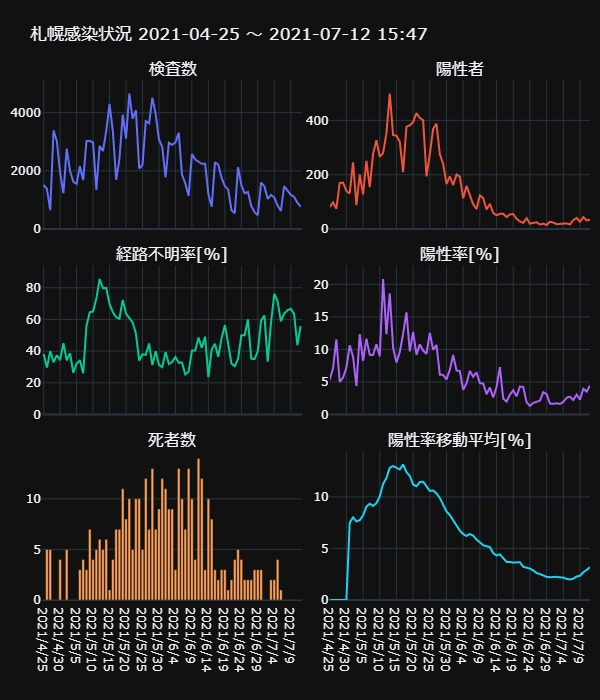
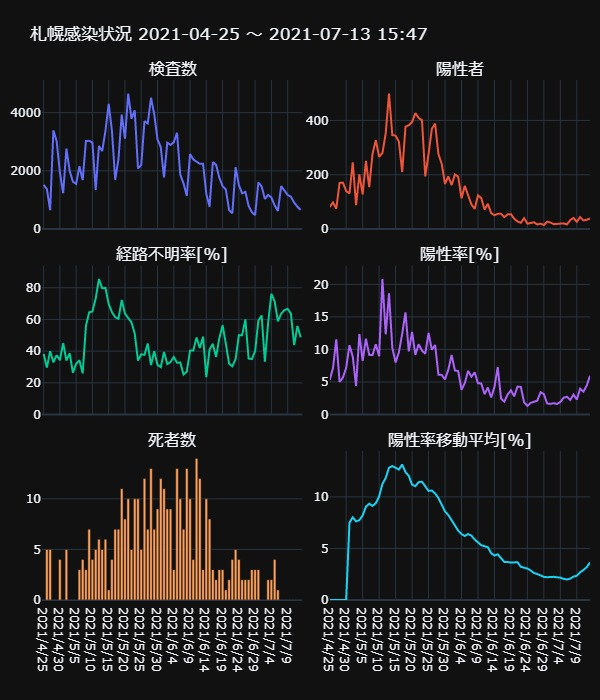
Updated with latest data.

diff --git a/docs/_includes/sapporo.html b/docs/_includes/sapporo.html
@@ -1,1 +1,1 @@
-<div>                            <div id="0b5a2108-7245-41b4-8dca-eda2f74f2cae" class="plotly-graph-div" style="height:700px; width:600px;"></div>            <script type="text/javascript">                                    window.PLOTLYENV=window.PLOTLYENV || {};                                    if (document.getElementById("0b5a2108-7245-41b4-8dca-eda2f74f2cae")) {                    Plotly.newPlot(                        "0b5a2108-7245-41b4-8dca-eda2f74f2cae",                        [{"name": "\u691c\u67fb\u6570", "type": "scatter", "x": ["2021/4/25", "2021/4/26", "2021/4/27", "2021/4/28", "2021/4/29", "2021/4/30", "2021/5/1", "2021/5/2", "2021/5/3", "2021/5/4", "2021/5/5", "2021/5/6", "2021/5/7", "2021/5/8", "2021/5/9", "2021/5/10", "2021/5/11", "2021/5/12", "2021/5/13", "2021/5/14", "2021/5/15", "2021/5/16", "2021/5/17", "2021/5/18", "2021/5/19", "2021/5/20", "2021/5/21", "2021/5/22", "2021/5/23", "2021/5/24", "2021/5/25", "2021/5/26", "2021/5/27", "2021/5/28", "2021/5/29", "2021/5/30", "2021/5/31", "2021/6/1", "2021/6/2", "2021/6/3", "2021/6/4", "2021/6/5", "2021/6/6", "2021/6/7", "2021/6/8", "2021/6/9", "2021/6/10", "2021/6/11", "2021/6/12", "2021/6/13", "2021/6/14", "2021/6/15", "2021/6/16", "2021/6/17", "2021/6/18", "2021/6/19", "2021/6/20", "2021/6/21", "2021/6/22", "2021/6/23", "2021/6/24", "2021/6/25", "2021/6/26", "2021/6/27", "2021/6/28", "2021/6/29", "2021/6/30", "2021/7/1", "2021/7/2", "2021/7/3", "2021/7/4", "2021/7/5", "2021/7/6", "2021/7/7", "2021/7/8", "2021/7/9", "2021/7/10", "2021/7/11", "2021/7/12"], "xaxis": "x", "y": [1517, 1377, 649, 3391, 3018, 1946, 1231, 2764, 2001, 1626, 1553, 2157, 1680, 3028, 3031, 2972, 1345, 2856, 2680, 3372, 4302, 3365, 1694, 2402, 3933, 3105, 4656, 3789, 4080, 2080, 2201, 3708, 3632, 4511, 3943, 3079, 2818, 1773, 2967, 2891, 2978, 3307, 1863, 1567, 1142, 2577, 2391, 2307, 2240, 2244, 1208, 768, 2295, 2212, 1763, 1476, 1360, 653, 542, 2124, 1513, 1229, 1278, 793, 583, 478, 1599, 1467, 1035, 1172, 1086, 813, 621, 1476, 1340, 1175, 1110, 909, 764], "yaxis": "y"}, {"name": "\u967d\u6027\u8005", "type": "scatter", "x": ["2021/4/25", "2021/4/26", "2021/4/27", "2021/4/28", "2021/4/29", "2021/4/30", "2021/5/1", "2021/5/2", "2021/5/3", "2021/5/4", "2021/5/5", "2021/5/6", "2021/5/7", "2021/5/8", "2021/5/9", "2021/5/10", "2021/5/11", "2021/5/12", "2021/5/13", "2021/5/14", "2021/5/15", "2021/5/16", "2021/5/17", "2021/5/18", "2021/5/19", "2021/5/20", "2021/5/21", "2021/5/22", "2021/5/23", "2021/5/24", "2021/5/25", "2021/5/26", "2021/5/27", "2021/5/28", "2021/5/29", "2021/5/30", "2021/5/31", "2021/6/1", "2021/6/2", "2021/6/3", "2021/6/4", "2021/6/5", "2021/6/6", "2021/6/7", "2021/6/8", "2021/6/9", "2021/6/10", "2021/6/11", "2021/6/12", "2021/6/13", "2021/6/14", "2021/6/15", "2021/6/16", "2021/6/17", "2021/6/18", "2021/6/19", "2021/6/20", "2021/6/21", "2021/6/22", "2021/6/23", "2021/6/24", "2021/6/25", "2021/6/26", "2021/6/27", "2021/6/28", "2021/6/29", "2021/6/30", "2021/7/1", "2021/7/2", "2021/7/3", "2021/7/4", "2021/7/5", "2021/7/6", "2021/7/7", "2021/7/8", "2021/7/9", "2021/7/10", "2021/7/11", "2021/7/12"], "xaxis": "x2", "y": [81, 98, 75, 170, 171, 140, 131, 246, 88, 201, 128, 251, 154, 277, 327, 266, 280, 352, 499, 346, 344, 322, 210, 377, 382, 394, 427, 409, 401, 194, 276, 369, 388, 276, 240, 166, 194, 162, 201, 193, 113, 159, 125, 91, 74, 124, 114, 72, 93, 59, 51, 56, 56, 44, 54, 55, 38, 28, 23, 40, 20, 22, 25, 17, 20, 15, 27, 24, 18, 19, 21, 21, 17, 33, 41, 27, 44, 32, 34], "yaxis": "y2"}, {"name": "\u7d4c\u8def\u4e0d\u660e\u7387[%]", "type": "scatter", "x": ["2021/4/25", "2021/4/26", "2021/4/27", "2021/4/28", "2021/4/29", "2021/4/30", "2021/5/1", "2021/5/2", "2021/5/3", "2021/5/4", "2021/5/5", "2021/5/6", "2021/5/7", "2021/5/8", "2021/5/9", "2021/5/10", "2021/5/11", "2021/5/12", "2021/5/13", "2021/5/14", "2021/5/15", "2021/5/16", "2021/5/17", "2021/5/18", "2021/5/19", "2021/5/20", "2021/5/21", "2021/5/22", "2021/5/23", "2021/5/24", "2021/5/25", "2021/5/26", "2021/5/27", "2021/5/28", "2021/5/29", "2021/5/30", "2021/5/31", "2021/6/1", "2021/6/2", "2021/6/3", "2021/6/4", "2021/6/5", "2021/6/6", "2021/6/7", "2021/6/8", "2021/6/9", "2021/6/10", "2021/6/11", "2021/6/12", "2021/6/13", "2021/6/14", "2021/6/15", "2021/6/16", "2021/6/17", "2021/6/18", "2021/6/19", "2021/6/20", "2021/6/21", "2021/6/22", "2021/6/23", "2021/6/24", "2021/6/25", "2021/6/26", "2021/6/27", "2021/6/28", "2021/6/29", "2021/6/30", "2021/7/1", "2021/7/2", "2021/7/3", "2021/7/4", "2021/7/5", "2021/7/6", "2021/7/7", "2021/7/8", "2021/7/9", "2021/7/10", "2021/7/11", "2021/7/12"], "xaxis": "x3", "y": [38.2716049382716, 29.591836734693878, 40.0, 32.94117647058823, 37.42690058479532, 34.285714285714285, 45.038167938931295, 34.146341463414636, 38.63636363636363, 26.368159203980102, 32.03125, 34.26294820717131, 25.97402597402597, 55.95667870036101, 64.52599388379205, 65.0375939849624, 73.21428571428571, 85.51136363636364, 79.75951903807615, 79.76878612716763, 69.76744186046511, 64.59627329192547, 61.42857142857143, 60.47745358090185, 72.25130890052355, 63.70558375634518, 60.88992974238876, 58.19070904645477, 51.12219451371571, 34.02061855670103, 38.04347826086957, 37.669376693766935, 44.84536082474227, 31.15942028985507, 40.0, 31.32530120481928, 29.896907216494846, 39.50617283950617, 31.8407960199005, 33.160621761658035, 36.283185840707965, 32.70440251572327, 32.800000000000004, 25.274725274725274, 27.027027027027028, 40.32258064516129, 40.35087719298245, 48.61111111111111, 41.935483870967744, 49.152542372881356, 23.52941176470588, 41.07142857142857, 44.642857142857146, 36.36363636363637, 48.148148148148145, 56.36363636363636, 44.73684210526316, 32.142857142857146, 30.434782608695656, 35.0, 50.0, 50.0, 60.0, 35.294117647058826, 35.0, 40.0, 59.25925925925925, 62.5, 33.33333333333333, 57.89473684210527, 76.19047619047619, 71.42857142857143, 58.82352941176471, 63.63636363636363, 65.85365853658537, 66.66666666666666, 63.63636363636363, 43.75, 55.88235294117647], "yaxis": "y3"}, {"name": "\u967d\u6027\u7387[%]", "type": "scatter", "x": ["2021/4/25", "2021/4/26", "2021/4/27", "2021/4/28", "2021/4/29", "2021/4/30", "2021/5/1", "2021/5/2", "2021/5/3", "2021/5/4", "2021/5/5", "2021/5/6", "2021/5/7", "2021/5/8", "2021/5/9", "2021/5/10", "2021/5/11", "2021/5/12", "2021/5/13", "2021/5/14", "2021/5/15", "2021/5/16", "2021/5/17", "2021/5/18", "2021/5/19", "2021/5/20", "2021/5/21", "2021/5/22", "2021/5/23", "2021/5/24", "2021/5/25", "2021/5/26", "2021/5/27", "2021/5/28", "2021/5/29", "2021/5/30", "2021/5/31", "2021/6/1", "2021/6/2", "2021/6/3", "2021/6/4", "2021/6/5", "2021/6/6", "2021/6/7", "2021/6/8", "2021/6/9", "2021/6/10", "2021/6/11", "2021/6/12", "2021/6/13", "2021/6/14", "2021/6/15", "2021/6/16", "2021/6/17", "2021/6/18", "2021/6/19", "2021/6/20", "2021/6/21", "2021/6/22", "2021/6/23", "2021/6/24", "2021/6/25", "2021/6/26", "2021/6/27", "2021/6/28", "2021/6/29", "2021/6/30", "2021/7/1", "2021/7/2", "2021/7/3", "2021/7/4", "2021/7/5", "2021/7/6", "2021/7/7", "2021/7/8", "2021/7/9", "2021/7/10", "2021/7/11", "2021/7/12"], "xaxis": "x4", "y": [5.339485827290705, 7.116920842411038, 11.556240369799692, 5.013270421704512, 5.666003976143141, 7.194244604316546, 10.641754670999187, 8.90014471780029, 4.397801099450275, 12.361623616236162, 8.24211204121056, 11.636532220676866, 9.166666666666666, 9.147952443857331, 10.788518640712635, 8.950201884253028, 20.817843866171003, 12.324929971988796, 18.619402985074625, 10.26097271648873, 7.996280799628081, 9.569093610698365, 12.396694214876034, 15.695253955037469, 9.712687515891178, 12.689210950080515, 9.170962199312713, 10.794404856162576, 9.82843137254902, 9.326923076923077, 12.539754656974104, 9.951456310679612, 10.682819383259911, 6.1183772999334956, 6.086735987826528, 5.391360831438779, 6.88431511710433, 9.137055837563452, 6.774519716885743, 6.675890695261155, 3.794492948287441, 4.807983066223163, 6.709608158883522, 5.8072750478621575, 6.47985989492119, 4.811796662786186, 4.767879548306149, 3.1209362808842656, 4.151785714285714, 2.6292335115864525, 4.2218543046357615, 7.291666666666667, 2.440087145969499, 1.9891500904159132, 3.0629608621667614, 3.7262872628726287, 2.794117647058824, 4.287901990811639, 4.243542435424354, 1.8832391713747645, 1.3218770654329148, 1.790073230268511, 1.9561815336463224, 2.1437578814627996, 3.430531732418525, 3.1380753138075312, 1.6885553470919326, 1.6359918200409, 1.7391304347826086, 1.621160409556314, 1.9337016574585635, 2.5830258302583027, 2.737520128824477, 2.2357723577235773, 3.0597014925373136, 2.297872340425532, 3.963963963963964, 3.52035203520352, 4.450261780104712], "yaxis": "y4"}, {"name": "\u6b7b\u8005\u6570", "type": "bar", "x": ["2021/4/25", "2021/4/26", "2021/4/27", "2021/4/28", "2021/4/29", "2021/4/30", "2021/5/1", "2021/5/2", "2021/5/3", "2021/5/4", "2021/5/5", "2021/5/6", "2021/5/7", "2021/5/8", "2021/5/9", "2021/5/10", "2021/5/11", "2021/5/12", "2021/5/13", "2021/5/14", "2021/5/15", "2021/5/16", "2021/5/17", "2021/5/18", "2021/5/19", "2021/5/20", "2021/5/21", "2021/5/22", "2021/5/23", "2021/5/24", "2021/5/25", "2021/5/26", "2021/5/27", "2021/5/28", "2021/5/29", "2021/5/30", "2021/5/31", "2021/6/1", "2021/6/2", "2021/6/3", "2021/6/4", "2021/6/5", "2021/6/6", "2021/6/7", "2021/6/8", "2021/6/9", "2021/6/10", "2021/6/11", "2021/6/12", "2021/6/13", "2021/6/14", "2021/6/15", "2021/6/16", "2021/6/17", "2021/6/18", "2021/6/19", "2021/6/20", "2021/6/21", "2021/6/22", "2021/6/23", "2021/6/24", "2021/6/25", "2021/6/26", "2021/6/27", "2021/6/28", "2021/6/29", "2021/6/30", "2021/7/1", "2021/7/2", "2021/7/3", "2021/7/4", "2021/7/5", "2021/7/6", "2021/7/7", "2021/7/8", "2021/7/9", "2021/7/10", "2021/7/11", "2021/7/12"], "xaxis": "x5", "y": [0, 5, 5, 0, 0, 4, 0, 5, 0, 0, 0, 3, 4, 3, 7, 4, 5, 6, 5, 6, 1, 4, 7, 7, 11, 8, 10, 5, 10, 10, 5, 12, 7, 13, 7, 9, 12, 11, 9, 9, 3, 13, 10, 7, 13, 10, 4, 14, 12, 3, 10, 8, 3, 2, 3, 3, 1, 2, 4, 5, 4, 2, 2, 2, 3, 3, 3, 0, 0, 2, 2, 4, 1, 0, 0, 0, 0, 0, 0], "yaxis": "y5"}, {"name": "\u967d\u6027\u7387\u79fb\u52d5\u5e73\u5747[%]", "type": "scatter", "x": ["2021/4/25", "2021/4/26", "2021/4/27", "2021/4/28", "2021/4/29", "2021/4/30", "2021/5/1", "2021/5/2", "2021/5/3", "2021/5/4", "2021/5/5", "2021/5/6", "2021/5/7", "2021/5/8", "2021/5/9", "2021/5/10", "2021/5/11", "2021/5/12", "2021/5/13", "2021/5/14", "2021/5/15", "2021/5/16", "2021/5/17", "2021/5/18", "2021/5/19", "2021/5/20", "2021/5/21", "2021/5/22", "2021/5/23", "2021/5/24", "2021/5/25", "2021/5/26", "2021/5/27", "2021/5/28", "2021/5/29", "2021/5/30", "2021/5/31", "2021/6/1", "2021/6/2", "2021/6/3", "2021/6/4", "2021/6/5", "2021/6/6", "2021/6/7", "2021/6/8", "2021/6/9", "2021/6/10", "2021/6/11", "2021/6/12", "2021/6/13", "2021/6/14", "2021/6/15", "2021/6/16", "2021/6/17", "2021/6/18", "2021/6/19", "2021/6/20", "2021/6/21", "2021/6/22", "2021/6/23", "2021/6/24", "2021/6/25", "2021/6/26", "2021/6/27", "2021/6/28", "2021/6/29", "2021/6/30", "2021/7/1", "2021/7/2", "2021/7/3", "2021/7/4", "2021/7/5", "2021/7/6", "2021/7/7", "2021/7/8", "2021/7/9", "2021/7/10", "2021/7/11", "2021/7/12"], "xaxis": "x6", "y": [0.0, 0.0, 0.0, 0.0, 0.0, 0.0, 7.503988673237832, 8.012654229024914, 7.624208551459091, 7.739263300950015, 8.20052638945088, 9.053458995812841, 9.335233576148571, 9.12183325798545, 9.391600961258641, 10.041943930516178, 11.249975394792585, 11.833235099189475, 12.830788065532012, 12.987117501220878, 12.8225929806167, 12.648389404900376, 13.140745452132233, 12.408946893398872, 12.035769399670638, 11.188599108957195, 11.032883320789193, 11.432615328865548, 11.469663580558498, 11.03112484656522, 10.580339232556168, 10.614449060383087, 10.32782169369443, 9.891738136640255, 9.219214012592248, 8.585346792433644, 8.236402798173822, 7.750302966829444, 7.296454882001749, 6.724036498001926, 6.392053019195346, 6.209374030394867, 6.397695077172687, 6.24383221013809, 5.864232789760624, 5.583843782032115, 5.311270761038544, 5.215048379980947, 5.12130590113274, 4.53839523723316, 4.311906559629389, 4.4278789555930285, 4.0890633103335015, 3.6921019592063242, 3.683819756532395, 3.6230342634733828, 3.646589139969436, 3.6560245237088473, 3.220578204959945, 3.141028494303555, 3.045703776448841, 2.863862686177662, 2.6109904391453327, 2.5180819012030433, 2.395600435718313, 2.237676561201624, 2.2098645863040765, 2.254738122676646, 2.247460580464374, 2.1996004198800874, 2.169592387879482, 2.0485201161423072, 1.991297946859014, 2.0694718055206773, 2.2728589015915936, 2.352679173826297, 2.687365395884533, 2.9140297355623836, 3.1807777283975844], "yaxis": "y6"}],                        {"annotations": [{"font": {"size": 16}, "showarrow": false, "text": "\u691c\u67fb\u6570", "x": 0.2375, "xanchor": "center", "xref": "paper", "y": 1.0, "yanchor": "bottom", "yref": "paper"}, {"font": {"size": 16}, "showarrow": false, "text": "\u967d\u6027\u8005", "x": 0.7625, "xanchor": "center", "xref": "paper", "y": 1.0, "yanchor": "bottom", "yref": "paper"}, {"font": {"size": 16}, "showarrow": false, "text": "\u7d4c\u8def\u4e0d\u660e\u7387[%]", "x": 0.2375, "xanchor": "center", "xref": "paper", "y": 0.6433333333333333, "yanchor": "bottom", "yref": "paper"}, {"font": {"size": 16}, "showarrow": false, "text": "\u967d\u6027\u7387[%]", "x": 0.7625, "xanchor": "center", "xref": "paper", "y": 0.6433333333333333, "yanchor": "bottom", "yref": "paper"}, {"font": {"size": 16}, "showarrow": false, "text": "\u6b7b\u8005\u6570", "x": 0.2375, "xanchor": "center", "xref": "paper", "y": 0.2866666666666667, "yanchor": "bottom", "yref": "paper"}, {"font": {"size": 16}, "showarrow": false, "text": "\u967d\u6027\u7387\u79fb\u52d5\u5e73\u5747[%]", "x": 0.7625, "xanchor": "center", "xref": "paper", "y": 0.2866666666666667, "yanchor": "bottom", "yref": "paper"}], "height": 700, "margin": {"b": 100, "l": 10, "r": 10, "t": 80}, "showlegend": false, "template": {"data": {"bar": [{"error_x": {"color": "#f2f5fa"}, "error_y": {"color": "#f2f5fa"}, "marker": {"line": {"color": "rgb(17,17,17)", "width": 0.5}}, "type": "bar"}], "barpolar": [{"marker": {"line": {"color": "rgb(17,17,17)", "width": 0.5}}, "type": "barpolar"}], "carpet": [{"aaxis": {"endlinecolor": "#A2B1C6", "gridcolor": "#506784", "linecolor": "#506784", "minorgridcolor": "#506784", "startlinecolor": "#A2B1C6"}, "baxis": {"endlinecolor": "#A2B1C6", "gridcolor": "#506784", "linecolor": "#506784", "minorgridcolor": "#506784", "startlinecolor": "#A2B1C6"}, "type": "carpet"}], "choropleth": [{"colorbar": {"outlinewidth": 0, "ticks": ""}, "type": "choropleth"}], "contour": [{"colorbar": {"outlinewidth": 0, "ticks": ""}, "colorscale": [[0.0, "#0d0887"], [0.1111111111111111, "#46039f"], [0.2222222222222222, "#7201a8"], [0.3333333333333333, "#9c179e"], [0.4444444444444444, "#bd3786"], [0.5555555555555556, "#d8576b"], [0.6666666666666666, "#ed7953"], [0.7777777777777778, "#fb9f3a"], [0.8888888888888888, "#fdca26"], [1.0, "#f0f921"]], "type": "contour"}], "contourcarpet": [{"colorbar": {"outlinewidth": 0, "ticks": ""}, "type": "contourcarpet"}], "heatmap": [{"colorbar": {"outlinewidth": 0, "ticks": ""}, "colorscale": [[0.0, "#0d0887"], [0.1111111111111111, "#46039f"], [0.2222222222222222, "#7201a8"], [0.3333333333333333, "#9c179e"], [0.4444444444444444, "#bd3786"], [0.5555555555555556, "#d8576b"], [0.6666666666666666, "#ed7953"], [0.7777777777777778, "#fb9f3a"], [0.8888888888888888, "#fdca26"], [1.0, "#f0f921"]], "type": "heatmap"}], "heatmapgl": [{"colorbar": {"outlinewidth": 0, "ticks": ""}, "colorscale": [[0.0, "#0d0887"], [0.1111111111111111, "#46039f"], [0.2222222222222222, "#7201a8"], [0.3333333333333333, "#9c179e"], [0.4444444444444444, "#bd3786"], [0.5555555555555556, "#d8576b"], [0.6666666666666666, "#ed7953"], [0.7777777777777778, "#fb9f3a"], [0.8888888888888888, "#fdca26"], [1.0, "#f0f921"]], "type": "heatmapgl"}], "histogram": [{"marker": {"colorbar": {"outlinewidth": 0, "ticks": ""}}, "type": "histogram"}], "histogram2d": [{"colorbar": {"outlinewidth": 0, "ticks": ""}, "colorscale": [[0.0, "#0d0887"], [0.1111111111111111, "#46039f"], [0.2222222222222222, "#7201a8"], [0.3333333333333333, "#9c179e"], [0.4444444444444444, "#bd3786"], [0.5555555555555556, "#d8576b"], [0.6666666666666666, "#ed7953"], [0.7777777777777778, "#fb9f3a"], [0.8888888888888888, "#fdca26"], [1.0, "#f0f921"]], "type": "histogram2d"}], "histogram2dcontour": [{"colorbar": {"outlinewidth": 0, "ticks": ""}, "colorscale": [[0.0, "#0d0887"], [0.1111111111111111, "#46039f"], [0.2222222222222222, "#7201a8"], [0.3333333333333333, "#9c179e"], [0.4444444444444444, "#bd3786"], [0.5555555555555556, "#d8576b"], [0.6666666666666666, "#ed7953"], [0.7777777777777778, "#fb9f3a"], [0.8888888888888888, "#fdca26"], [1.0, "#f0f921"]], "type": "histogram2dcontour"}], "mesh3d": [{"colorbar": {"outlinewidth": 0, "ticks": ""}, "type": "mesh3d"}], "parcoords": [{"line": {"colorbar": {"outlinewidth": 0, "ticks": ""}}, "type": "parcoords"}], "pie": [{"automargin": true, "type": "pie"}], "scatter": [{"marker": {"line": {"color": "#283442"}}, "type": "scatter"}], "scatter3d": [{"line": {"colorbar": {"outlinewidth": 0, "ticks": ""}}, "marker": {"colorbar": {"outlinewidth": 0, "ticks": ""}}, "type": "scatter3d"}], "scattercarpet": [{"marker": {"colorbar": {"outlinewidth": 0, "ticks": ""}}, "type": "scattercarpet"}], "scattergeo": [{"marker": {"colorbar": {"outlinewidth": 0, "ticks": ""}}, "type": "scattergeo"}], "scattergl": [{"marker": {"line": {"color": "#283442"}}, "type": "scattergl"}], "scattermapbox": [{"marker": {"colorbar": {"outlinewidth": 0, "ticks": ""}}, "type": "scattermapbox"}], "scatterpolar": [{"marker": {"colorbar": {"outlinewidth": 0, "ticks": ""}}, "type": "scatterpolar"}], "scatterpolargl": [{"marker": {"colorbar": {"outlinewidth": 0, "ticks": ""}}, "type": "scatterpolargl"}], "scatterternary": [{"marker": {"colorbar": {"outlinewidth": 0, "ticks": ""}}, "type": "scatterternary"}], "surface": [{"colorbar": {"outlinewidth": 0, "ticks": ""}, "colorscale": [[0.0, "#0d0887"], [0.1111111111111111, "#46039f"], [0.2222222222222222, "#7201a8"], [0.3333333333333333, "#9c179e"], [0.4444444444444444, "#bd3786"], [0.5555555555555556, "#d8576b"], [0.6666666666666666, "#ed7953"], [0.7777777777777778, "#fb9f3a"], [0.8888888888888888, "#fdca26"], [1.0, "#f0f921"]], "type": "surface"}], "table": [{"cells": {"fill": {"color": "#506784"}, "line": {"color": "rgb(17,17,17)"}}, "header": {"fill": {"color": "#2a3f5f"}, "line": {"color": "rgb(17,17,17)"}}, "type": "table"}]}, "layout": {"annotationdefaults": {"arrowcolor": "#f2f5fa", "arrowhead": 0, "arrowwidth": 1}, "autotypenumbers": "strict", "coloraxis": {"colorbar": {"outlinewidth": 0, "ticks": ""}}, "colorscale": {"diverging": [[0, "#8e0152"], [0.1, "#c51b7d"], [0.2, "#de77ae"], [0.3, "#f1b6da"], [0.4, "#fde0ef"], [0.5, "#f7f7f7"], [0.6, "#e6f5d0"], [0.7, "#b8e186"], [0.8, "#7fbc41"], [0.9, "#4d9221"], [1, "#276419"]], "sequential": [[0.0, "#0d0887"], [0.1111111111111111, "#46039f"], [0.2222222222222222, "#7201a8"], [0.3333333333333333, "#9c179e"], [0.4444444444444444, "#bd3786"], [0.5555555555555556, "#d8576b"], [0.6666666666666666, "#ed7953"], [0.7777777777777778, "#fb9f3a"], [0.8888888888888888, "#fdca26"], [1.0, "#f0f921"]], "sequentialminus": [[0.0, "#0d0887"], [0.1111111111111111, "#46039f"], [0.2222222222222222, "#7201a8"], [0.3333333333333333, "#9c179e"], [0.4444444444444444, "#bd3786"], [0.5555555555555556, "#d8576b"], [0.6666666666666666, "#ed7953"], [0.7777777777777778, "#fb9f3a"], [0.8888888888888888, "#fdca26"], [1.0, "#f0f921"]]}, "colorway": ["#636efa", "#EF553B", "#00cc96", "#ab63fa", "#FFA15A", "#19d3f3", "#FF6692", "#B6E880", "#FF97FF", "#FECB52"], "font": {"color": "#f2f5fa"}, "geo": {"bgcolor": "rgb(17,17,17)", "lakecolor": "rgb(17,17,17)", "landcolor": "rgb(17,17,17)", "showlakes": true, "showland": true, "subunitcolor": "#506784"}, "hoverlabel": {"align": "left"}, "hovermode": "closest", "mapbox": {"style": "dark"}, "paper_bgcolor": "rgb(17,17,17)", "plot_bgcolor": "rgb(17,17,17)", "polar": {"angularaxis": {"gridcolor": "#506784", "linecolor": "#506784", "ticks": ""}, "bgcolor": "rgb(17,17,17)", "radialaxis": {"gridcolor": "#506784", "linecolor": "#506784", "ticks": ""}}, "scene": {"xaxis": {"backgroundcolor": "rgb(17,17,17)", "gridcolor": "#506784", "gridwidth": 2, "linecolor": "#506784", "showbackground": true, "ticks": "", "zerolinecolor": "#C8D4E3"}, "yaxis": {"backgroundcolor": "rgb(17,17,17)", "gridcolor": "#506784", "gridwidth": 2, "linecolor": "#506784", "showbackground": true, "ticks": "", "zerolinecolor": "#C8D4E3"}, "zaxis": {"backgroundcolor": "rgb(17,17,17)", "gridcolor": "#506784", "gridwidth": 2, "linecolor": "#506784", "showbackground": true, "ticks": "", "zerolinecolor": "#C8D4E3"}}, "shapedefaults": {"line": {"color": "#f2f5fa"}}, "sliderdefaults": {"bgcolor": "#C8D4E3", "bordercolor": "rgb(17,17,17)", "borderwidth": 1, "tickwidth": 0}, "ternary": {"aaxis": {"gridcolor": "#506784", "linecolor": "#506784", "ticks": ""}, "baxis": {"gridcolor": "#506784", "linecolor": "#506784", "ticks": ""}, "bgcolor": "rgb(17,17,17)", "caxis": {"gridcolor": "#506784", "linecolor": "#506784", "ticks": ""}}, "title": {"x": 0.05}, "updatemenudefaults": {"bgcolor": "#506784", "borderwidth": 0}, "xaxis": {"automargin": true, "gridcolor": "#283442", "linecolor": "#506784", "ticks": "", "title": {"standoff": 15}, "zerolinecolor": "#283442", "zerolinewidth": 2}, "yaxis": {"automargin": true, "gridcolor": "#283442", "linecolor": "#506784", "ticks": "", "title": {"standoff": 15}, "zerolinecolor": "#283442", "zerolinewidth": 2}}}, "title": {"text": "\u672d\u5e4c\u611f\u67d3\u72b6\u6cc1 2021-04-25 \uff5e 2021-07-12 15:47"}, "width": 600, "xaxis": {"anchor": "y", "domain": [0.0, 0.475], "matches": "x5", "showticklabels": false}, "xaxis2": {"anchor": "y2", "domain": [0.525, 1.0], "matches": "x6", "showticklabels": false}, "xaxis3": {"anchor": "y3", "domain": [0.0, 0.475], "matches": "x5", "showticklabels": false}, "xaxis4": {"anchor": "y4", "domain": [0.525, 1.0], "matches": "x6", "showticklabels": false}, "xaxis5": {"anchor": "y5", "domain": [0.0, 0.475]}, "xaxis6": {"anchor": "y6", "domain": [0.525, 1.0]}, "yaxis": {"anchor": "x", "domain": [0.7133333333333334, 1.0], "range": [0, 5121.6]}, "yaxis2": {"anchor": "x2", "domain": [0.7133333333333334, 1.0], "range": [0, 548.9000000000001]}, "yaxis3": {"anchor": "x3", "domain": [0.3566666666666667, 0.6433333333333333], "range": [0, 94.06250000000001]}, "yaxis4": {"anchor": "x4", "domain": [0.3566666666666667, 0.6433333333333333], "range": [0, 22.899628252788105]}, "yaxis5": {"anchor": "x5", "domain": [0.0, 0.2866666666666667]}, "yaxis6": {"anchor": "x6", "domain": [0.0, 0.2866666666666667], "range": [0, 14.454819997345457]}},                        {"responsive": true}                    )                };                            </script>        </div>
+<div>                            <div id="8fd018f8-7667-4017-8fbf-c5a1667464a9" class="plotly-graph-div" style="height:700px; width:600px;"></div>            <script type="text/javascript">                                    window.PLOTLYENV=window.PLOTLYENV || {};                                    if (document.getElementById("8fd018f8-7667-4017-8fbf-c5a1667464a9")) {                    Plotly.newPlot(                        "8fd018f8-7667-4017-8fbf-c5a1667464a9",                        [{"name": "\u691c\u67fb\u6570", "type": "scatter", "x": ["2021/4/25", "2021/4/26", "2021/4/27", "2021/4/28", "2021/4/29", "2021/4/30", "2021/5/1", "2021/5/2", "2021/5/3", "2021/5/4", "2021/5/5", "2021/5/6", "2021/5/7", "2021/5/8", "2021/5/9", "2021/5/10", "2021/5/11", "2021/5/12", "2021/5/13", "2021/5/14", "2021/5/15", "2021/5/16", "2021/5/17", "2021/5/18", "2021/5/19", "2021/5/20", "2021/5/21", "2021/5/22", "2021/5/23", "2021/5/24", "2021/5/25", "2021/5/26", "2021/5/27", "2021/5/28", "2021/5/29", "2021/5/30", "2021/5/31", "2021/6/1", "2021/6/2", "2021/6/3", "2021/6/4", "2021/6/5", "2021/6/6", "2021/6/7", "2021/6/8", "2021/6/9", "2021/6/10", "2021/6/11", "2021/6/12", "2021/6/13", "2021/6/14", "2021/6/15", "2021/6/16", "2021/6/17", "2021/6/18", "2021/6/19", "2021/6/20", "2021/6/21", "2021/6/22", "2021/6/23", "2021/6/24", "2021/6/25", "2021/6/26", "2021/6/27", "2021/6/28", "2021/6/29", "2021/6/30", "2021/7/1", "2021/7/2", "2021/7/3", "2021/7/4", "2021/7/5", "2021/7/6", "2021/7/7", "2021/7/8", "2021/7/9", "2021/7/10", "2021/7/11", "2021/7/12", "2021/7/13"], "xaxis": "x", "y": [1517, 1377, 649, 3391, 3018, 1946, 1231, 2764, 2001, 1626, 1553, 2157, 1680, 3028, 3031, 2972, 1345, 2856, 2680, 3372, 4302, 3365, 1694, 2402, 3933, 3105, 4656, 3789, 4080, 2080, 2201, 3708, 3632, 4511, 3943, 3079, 2818, 1773, 2967, 2891, 2978, 3307, 1863, 1567, 1142, 2577, 2391, 2307, 2240, 2244, 1208, 768, 2295, 2212, 1763, 1476, 1360, 653, 542, 2124, 1513, 1229, 1278, 793, 583, 478, 1599, 1467, 1035, 1172, 1086, 813, 621, 1476, 1340, 1175, 1110, 909, 764, 656], "yaxis": "y"}, {"name": "\u967d\u6027\u8005", "type": "scatter", "x": ["2021/4/25", "2021/4/26", "2021/4/27", "2021/4/28", "2021/4/29", "2021/4/30", "2021/5/1", "2021/5/2", "2021/5/3", "2021/5/4", "2021/5/5", "2021/5/6", "2021/5/7", "2021/5/8", "2021/5/9", "2021/5/10", "2021/5/11", "2021/5/12", "2021/5/13", "2021/5/14", "2021/5/15", "2021/5/16", "2021/5/17", "2021/5/18", "2021/5/19", "2021/5/20", "2021/5/21", "2021/5/22", "2021/5/23", "2021/5/24", "2021/5/25", "2021/5/26", "2021/5/27", "2021/5/28", "2021/5/29", "2021/5/30", "2021/5/31", "2021/6/1", "2021/6/2", "2021/6/3", "2021/6/4", "2021/6/5", "2021/6/6", "2021/6/7", "2021/6/8", "2021/6/9", "2021/6/10", "2021/6/11", "2021/6/12", "2021/6/13", "2021/6/14", "2021/6/15", "2021/6/16", "2021/6/17", "2021/6/18", "2021/6/19", "2021/6/20", "2021/6/21", "2021/6/22", "2021/6/23", "2021/6/24", "2021/6/25", "2021/6/26", "2021/6/27", "2021/6/28", "2021/6/29", "2021/6/30", "2021/7/1", "2021/7/2", "2021/7/3", "2021/7/4", "2021/7/5", "2021/7/6", "2021/7/7", "2021/7/8", "2021/7/9", "2021/7/10", "2021/7/11", "2021/7/12", "2021/7/13"], "xaxis": "x2", "y": [81, 98, 75, 170, 171, 140, 131, 246, 88, 201, 128, 251, 154, 277, 327, 266, 280, 352, 499, 346, 344, 322, 210, 377, 382, 394, 427, 409, 401, 194, 276, 369, 388, 276, 240, 166, 194, 162, 201, 193, 113, 159, 125, 91, 74, 124, 114, 72, 93, 59, 51, 56, 56, 44, 54, 55, 38, 28, 23, 40, 20, 22, 25, 17, 20, 15, 27, 24, 18, 19, 21, 21, 17, 33, 41, 27, 44, 32, 34, 39], "yaxis": "y2"}, {"name": "\u7d4c\u8def\u4e0d\u660e\u7387[%]", "type": "scatter", "x": ["2021/4/25", "2021/4/26", "2021/4/27", "2021/4/28", "2021/4/29", "2021/4/30", "2021/5/1", "2021/5/2", "2021/5/3", "2021/5/4", "2021/5/5", "2021/5/6", "2021/5/7", "2021/5/8", "2021/5/9", "2021/5/10", "2021/5/11", "2021/5/12", "2021/5/13", "2021/5/14", "2021/5/15", "2021/5/16", "2021/5/17", "2021/5/18", "2021/5/19", "2021/5/20", "2021/5/21", "2021/5/22", "2021/5/23", "2021/5/24", "2021/5/25", "2021/5/26", "2021/5/27", "2021/5/28", "2021/5/29", "2021/5/30", "2021/5/31", "2021/6/1", "2021/6/2", "2021/6/3", "2021/6/4", "2021/6/5", "2021/6/6", "2021/6/7", "2021/6/8", "2021/6/9", "2021/6/10", "2021/6/11", "2021/6/12", "2021/6/13", "2021/6/14", "2021/6/15", "2021/6/16", "2021/6/17", "2021/6/18", "2021/6/19", "2021/6/20", "2021/6/21", "2021/6/22", "2021/6/23", "2021/6/24", "2021/6/25", "2021/6/26", "2021/6/27", "2021/6/28", "2021/6/29", "2021/6/30", "2021/7/1", "2021/7/2", "2021/7/3", "2021/7/4", "2021/7/5", "2021/7/6", "2021/7/7", "2021/7/8", "2021/7/9", "2021/7/10", "2021/7/11", "2021/7/12", "2021/7/13"], "xaxis": "x3", "y": [38.2716049382716, 29.591836734693878, 40.0, 32.94117647058823, 37.42690058479532, 34.285714285714285, 45.038167938931295, 34.146341463414636, 38.63636363636363, 26.368159203980102, 32.03125, 34.26294820717131, 25.97402597402597, 55.95667870036101, 64.52599388379205, 65.0375939849624, 73.21428571428571, 85.51136363636364, 79.75951903807615, 79.76878612716763, 69.76744186046511, 64.59627329192547, 61.42857142857143, 60.47745358090185, 72.25130890052355, 63.70558375634518, 60.88992974238876, 58.19070904645477, 51.12219451371571, 34.02061855670103, 38.04347826086957, 37.669376693766935, 44.84536082474227, 31.15942028985507, 40.0, 31.32530120481928, 29.896907216494846, 39.50617283950617, 31.8407960199005, 33.160621761658035, 36.283185840707965, 32.70440251572327, 32.800000000000004, 25.274725274725274, 27.027027027027028, 40.32258064516129, 40.35087719298245, 48.61111111111111, 41.935483870967744, 49.152542372881356, 23.52941176470588, 41.07142857142857, 44.642857142857146, 36.36363636363637, 48.148148148148145, 56.36363636363636, 44.73684210526316, 32.142857142857146, 30.434782608695656, 35.0, 50.0, 50.0, 60.0, 35.294117647058826, 35.0, 40.0, 59.25925925925925, 62.5, 33.33333333333333, 57.89473684210527, 76.19047619047619, 71.42857142857143, 58.82352941176471, 63.63636363636363, 65.85365853658537, 66.66666666666666, 63.63636363636363, 43.75, 55.88235294117647, 48.717948717948715], "yaxis": "y3"}, {"name": "\u967d\u6027\u7387[%]", "type": "scatter", "x": ["2021/4/25", "2021/4/26", "2021/4/27", "2021/4/28", "2021/4/29", "2021/4/30", "2021/5/1", "2021/5/2", "2021/5/3", "2021/5/4", "2021/5/5", "2021/5/6", "2021/5/7", "2021/5/8", "2021/5/9", "2021/5/10", "2021/5/11", "2021/5/12", "2021/5/13", "2021/5/14", "2021/5/15", "2021/5/16", "2021/5/17", "2021/5/18", "2021/5/19", "2021/5/20", "2021/5/21", "2021/5/22", "2021/5/23", "2021/5/24", "2021/5/25", "2021/5/26", "2021/5/27", "2021/5/28", "2021/5/29", "2021/5/30", "2021/5/31", "2021/6/1", "2021/6/2", "2021/6/3", "2021/6/4", "2021/6/5", "2021/6/6", "2021/6/7", "2021/6/8", "2021/6/9", "2021/6/10", "2021/6/11", "2021/6/12", "2021/6/13", "2021/6/14", "2021/6/15", "2021/6/16", "2021/6/17", "2021/6/18", "2021/6/19", "2021/6/20", "2021/6/21", "2021/6/22", "2021/6/23", "2021/6/24", "2021/6/25", "2021/6/26", "2021/6/27", "2021/6/28", "2021/6/29", "2021/6/30", "2021/7/1", "2021/7/2", "2021/7/3", "2021/7/4", "2021/7/5", "2021/7/6", "2021/7/7", "2021/7/8", "2021/7/9", "2021/7/10", "2021/7/11", "2021/7/12", "2021/7/13"], "xaxis": "x4", "y": [5.339485827290705, 7.116920842411038, 11.556240369799692, 5.013270421704512, 5.666003976143141, 7.194244604316546, 10.641754670999187, 8.90014471780029, 4.397801099450275, 12.361623616236162, 8.24211204121056, 11.636532220676866, 9.166666666666666, 9.147952443857331, 10.788518640712635, 8.950201884253028, 20.817843866171003, 12.324929971988796, 18.619402985074625, 10.26097271648873, 7.996280799628081, 9.569093610698365, 12.396694214876034, 15.695253955037469, 9.712687515891178, 12.689210950080515, 9.170962199312713, 10.794404856162576, 9.82843137254902, 9.326923076923077, 12.539754656974104, 9.951456310679612, 10.682819383259911, 6.1183772999334956, 6.086735987826528, 5.391360831438779, 6.88431511710433, 9.137055837563452, 6.774519716885743, 6.675890695261155, 3.794492948287441, 4.807983066223163, 6.709608158883522, 5.8072750478621575, 6.47985989492119, 4.811796662786186, 4.767879548306149, 3.1209362808842656, 4.151785714285714, 2.6292335115864525, 4.2218543046357615, 7.291666666666667, 2.440087145969499, 1.9891500904159132, 3.0629608621667614, 3.7262872628726287, 2.794117647058824, 4.287901990811639, 4.243542435424354, 1.8832391713747645, 1.3218770654329148, 1.790073230268511, 1.9561815336463224, 2.1437578814627996, 3.430531732418525, 3.1380753138075312, 1.6885553470919326, 1.6359918200409, 1.7391304347826086, 1.621160409556314, 1.9337016574585635, 2.5830258302583027, 2.737520128824477, 2.2357723577235773, 3.0597014925373136, 2.297872340425532, 3.963963963963964, 3.52035203520352, 4.450261780104712, 5.945121951219512], "yaxis": "y4"}, {"name": "\u6b7b\u8005\u6570", "type": "bar", "x": ["2021/4/25", "2021/4/26", "2021/4/27", "2021/4/28", "2021/4/29", "2021/4/30", "2021/5/1", "2021/5/2", "2021/5/3", "2021/5/4", "2021/5/5", "2021/5/6", "2021/5/7", "2021/5/8", "2021/5/9", "2021/5/10", "2021/5/11", "2021/5/12", "2021/5/13", "2021/5/14", "2021/5/15", "2021/5/16", "2021/5/17", "2021/5/18", "2021/5/19", "2021/5/20", "2021/5/21", "2021/5/22", "2021/5/23", "2021/5/24", "2021/5/25", "2021/5/26", "2021/5/27", "2021/5/28", "2021/5/29", "2021/5/30", "2021/5/31", "2021/6/1", "2021/6/2", "2021/6/3", "2021/6/4", "2021/6/5", "2021/6/6", "2021/6/7", "2021/6/8", "2021/6/9", "2021/6/10", "2021/6/11", "2021/6/12", "2021/6/13", "2021/6/14", "2021/6/15", "2021/6/16", "2021/6/17", "2021/6/18", "2021/6/19", "2021/6/20", "2021/6/21", "2021/6/22", "2021/6/23", "2021/6/24", "2021/6/25", "2021/6/26", "2021/6/27", "2021/6/28", "2021/6/29", "2021/6/30", "2021/7/1", "2021/7/2", "2021/7/3", "2021/7/4", "2021/7/5", "2021/7/6", "2021/7/7", "2021/7/8", "2021/7/9", "2021/7/10", "2021/7/11", "2021/7/12", "2021/7/13"], "xaxis": "x5", "y": [0, 5, 5, 0, 0, 4, 0, 5, 0, 0, 0, 3, 4, 3, 7, 4, 5, 6, 5, 6, 1, 4, 7, 7, 11, 8, 10, 5, 10, 10, 5, 12, 7, 13, 7, 9, 12, 11, 9, 9, 3, 13, 10, 7, 13, 10, 4, 14, 12, 3, 10, 8, 3, 2, 3, 3, 1, 2, 4, 5, 4, 2, 2, 2, 3, 3, 3, 0, 0, 2, 2, 4, 1, 0, 0, 0, 0, 0, 0, 0], "yaxis": "y5"}, {"name": "\u967d\u6027\u7387\u79fb\u52d5\u5e73\u5747[%]", "type": "scatter", "x": ["2021/4/25", "2021/4/26", "2021/4/27", "2021/4/28", "2021/4/29", "2021/4/30", "2021/5/1", "2021/5/2", "2021/5/3", "2021/5/4", "2021/5/5", "2021/5/6", "2021/5/7", "2021/5/8", "2021/5/9", "2021/5/10", "2021/5/11", "2021/5/12", "2021/5/13", "2021/5/14", "2021/5/15", "2021/5/16", "2021/5/17", "2021/5/18", "2021/5/19", "2021/5/20", "2021/5/21", "2021/5/22", "2021/5/23", "2021/5/24", "2021/5/25", "2021/5/26", "2021/5/27", "2021/5/28", "2021/5/29", "2021/5/30", "2021/5/31", "2021/6/1", "2021/6/2", "2021/6/3", "2021/6/4", "2021/6/5", "2021/6/6", "2021/6/7", "2021/6/8", "2021/6/9", "2021/6/10", "2021/6/11", "2021/6/12", "2021/6/13", "2021/6/14", "2021/6/15", "2021/6/16", "2021/6/17", "2021/6/18", "2021/6/19", "2021/6/20", "2021/6/21", "2021/6/22", "2021/6/23", "2021/6/24", "2021/6/25", "2021/6/26", "2021/6/27", "2021/6/28", "2021/6/29", "2021/6/30", "2021/7/1", "2021/7/2", "2021/7/3", "2021/7/4", "2021/7/5", "2021/7/6", "2021/7/7", "2021/7/8", "2021/7/9", "2021/7/10", "2021/7/11", "2021/7/12", "2021/7/13"], "xaxis": "x6", "y": [0.0, 0.0, 0.0, 0.0, 0.0, 0.0, 7.503988673237832, 8.012654229024914, 7.624208551459091, 7.739263300950015, 8.20052638945088, 9.053458995812841, 9.335233576148571, 9.12183325798545, 9.391600961258641, 10.041943930516178, 11.249975394792585, 11.833235099189475, 12.830788065532012, 12.987117501220878, 12.8225929806167, 12.648389404900376, 13.140745452132233, 12.408946893398872, 12.035769399670638, 11.188599108957195, 11.032883320789193, 11.432615328865548, 11.469663580558498, 11.03112484656522, 10.580339232556168, 10.614449060383087, 10.32782169369443, 9.891738136640255, 9.219214012592248, 8.585346792433644, 8.236402798173822, 7.750302966829444, 7.296454882001749, 6.724036498001926, 6.392053019195346, 6.209374030394867, 6.397695077172687, 6.24383221013809, 5.864232789760624, 5.583843782032115, 5.311270761038544, 5.215048379980947, 5.12130590113274, 4.53839523723316, 4.311906559629389, 4.4278789555930285, 4.0890633103335015, 3.6921019592063242, 3.683819756532395, 3.6230342634733828, 3.646589139969436, 3.6560245237088473, 3.220578204959945, 3.141028494303555, 3.045703776448841, 2.863862686177662, 2.6109904391453327, 2.5180819012030433, 2.395600435718313, 2.237676561201624, 2.2098645863040765, 2.254738122676646, 2.247460580464374, 2.1996004198800874, 2.169592387879482, 2.0485201161423072, 1.991297946859014, 2.0694718055206773, 2.2728589015915936, 2.352679173826297, 2.687365395884533, 2.9140297355623836, 3.1807777283975844, 3.639006560168304], "yaxis": "y6"}],                        {"annotations": [{"font": {"size": 16}, "showarrow": false, "text": "\u691c\u67fb\u6570", "x": 0.2375, "xanchor": "center", "xref": "paper", "y": 1.0, "yanchor": "bottom", "yref": "paper"}, {"font": {"size": 16}, "showarrow": false, "text": "\u967d\u6027\u8005", "x": 0.7625, "xanchor": "center", "xref": "paper", "y": 1.0, "yanchor": "bottom", "yref": "paper"}, {"font": {"size": 16}, "showarrow": false, "text": "\u7d4c\u8def\u4e0d\u660e\u7387[%]", "x": 0.2375, "xanchor": "center", "xref": "paper", "y": 0.6433333333333333, "yanchor": "bottom", "yref": "paper"}, {"font": {"size": 16}, "showarrow": false, "text": "\u967d\u6027\u7387[%]", "x": 0.7625, "xanchor": "center", "xref": "paper", "y": 0.6433333333333333, "yanchor": "bottom", "yref": "paper"}, {"font": {"size": 16}, "showarrow": false, "text": "\u6b7b\u8005\u6570", "x": 0.2375, "xanchor": "center", "xref": "paper", "y": 0.2866666666666667, "yanchor": "bottom", "yref": "paper"}, {"font": {"size": 16}, "showarrow": false, "text": "\u967d\u6027\u7387\u79fb\u52d5\u5e73\u5747[%]", "x": 0.7625, "xanchor": "center", "xref": "paper", "y": 0.2866666666666667, "yanchor": "bottom", "yref": "paper"}], "height": 700, "margin": {"b": 100, "l": 10, "r": 10, "t": 80}, "showlegend": false, "template": {"data": {"bar": [{"error_x": {"color": "#f2f5fa"}, "error_y": {"color": "#f2f5fa"}, "marker": {"line": {"color": "rgb(17,17,17)", "width": 0.5}}, "type": "bar"}], "barpolar": [{"marker": {"line": {"color": "rgb(17,17,17)", "width": 0.5}}, "type": "barpolar"}], "carpet": [{"aaxis": {"endlinecolor": "#A2B1C6", "gridcolor": "#506784", "linecolor": "#506784", "minorgridcolor": "#506784", "startlinecolor": "#A2B1C6"}, "baxis": {"endlinecolor": "#A2B1C6", "gridcolor": "#506784", "linecolor": "#506784", "minorgridcolor": "#506784", "startlinecolor": "#A2B1C6"}, "type": "carpet"}], "choropleth": [{"colorbar": {"outlinewidth": 0, "ticks": ""}, "type": "choropleth"}], "contour": [{"colorbar": {"outlinewidth": 0, "ticks": ""}, "colorscale": [[0.0, "#0d0887"], [0.1111111111111111, "#46039f"], [0.2222222222222222, "#7201a8"], [0.3333333333333333, "#9c179e"], [0.4444444444444444, "#bd3786"], [0.5555555555555556, "#d8576b"], [0.6666666666666666, "#ed7953"], [0.7777777777777778, "#fb9f3a"], [0.8888888888888888, "#fdca26"], [1.0, "#f0f921"]], "type": "contour"}], "contourcarpet": [{"colorbar": {"outlinewidth": 0, "ticks": ""}, "type": "contourcarpet"}], "heatmap": [{"colorbar": {"outlinewidth": 0, "ticks": ""}, "colorscale": [[0.0, "#0d0887"], [0.1111111111111111, "#46039f"], [0.2222222222222222, "#7201a8"], [0.3333333333333333, "#9c179e"], [0.4444444444444444, "#bd3786"], [0.5555555555555556, "#d8576b"], [0.6666666666666666, "#ed7953"], [0.7777777777777778, "#fb9f3a"], [0.8888888888888888, "#fdca26"], [1.0, "#f0f921"]], "type": "heatmap"}], "heatmapgl": [{"colorbar": {"outlinewidth": 0, "ticks": ""}, "colorscale": [[0.0, "#0d0887"], [0.1111111111111111, "#46039f"], [0.2222222222222222, "#7201a8"], [0.3333333333333333, "#9c179e"], [0.4444444444444444, "#bd3786"], [0.5555555555555556, "#d8576b"], [0.6666666666666666, "#ed7953"], [0.7777777777777778, "#fb9f3a"], [0.8888888888888888, "#fdca26"], [1.0, "#f0f921"]], "type": "heatmapgl"}], "histogram": [{"marker": {"colorbar": {"outlinewidth": 0, "ticks": ""}}, "type": "histogram"}], "histogram2d": [{"colorbar": {"outlinewidth": 0, "ticks": ""}, "colorscale": [[0.0, "#0d0887"], [0.1111111111111111, "#46039f"], [0.2222222222222222, "#7201a8"], [0.3333333333333333, "#9c179e"], [0.4444444444444444, "#bd3786"], [0.5555555555555556, "#d8576b"], [0.6666666666666666, "#ed7953"], [0.7777777777777778, "#fb9f3a"], [0.8888888888888888, "#fdca26"], [1.0, "#f0f921"]], "type": "histogram2d"}], "histogram2dcontour": [{"colorbar": {"outlinewidth": 0, "ticks": ""}, "colorscale": [[0.0, "#0d0887"], [0.1111111111111111, "#46039f"], [0.2222222222222222, "#7201a8"], [0.3333333333333333, "#9c179e"], [0.4444444444444444, "#bd3786"], [0.5555555555555556, "#d8576b"], [0.6666666666666666, "#ed7953"], [0.7777777777777778, "#fb9f3a"], [0.8888888888888888, "#fdca26"], [1.0, "#f0f921"]], "type": "histogram2dcontour"}], "mesh3d": [{"colorbar": {"outlinewidth": 0, "ticks": ""}, "type": "mesh3d"}], "parcoords": [{"line": {"colorbar": {"outlinewidth": 0, "ticks": ""}}, "type": "parcoords"}], "pie": [{"automargin": true, "type": "pie"}], "scatter": [{"marker": {"line": {"color": "#283442"}}, "type": "scatter"}], "scatter3d": [{"line": {"colorbar": {"outlinewidth": 0, "ticks": ""}}, "marker": {"colorbar": {"outlinewidth": 0, "ticks": ""}}, "type": "scatter3d"}], "scattercarpet": [{"marker": {"colorbar": {"outlinewidth": 0, "ticks": ""}}, "type": "scattercarpet"}], "scattergeo": [{"marker": {"colorbar": {"outlinewidth": 0, "ticks": ""}}, "type": "scattergeo"}], "scattergl": [{"marker": {"line": {"color": "#283442"}}, "type": "scattergl"}], "scattermapbox": [{"marker": {"colorbar": {"outlinewidth": 0, "ticks": ""}}, "type": "scattermapbox"}], "scatterpolar": [{"marker": {"colorbar": {"outlinewidth": 0, "ticks": ""}}, "type": "scatterpolar"}], "scatterpolargl": [{"marker": {"colorbar": {"outlinewidth": 0, "ticks": ""}}, "type": "scatterpolargl"}], "scatterternary": [{"marker": {"colorbar": {"outlinewidth": 0, "ticks": ""}}, "type": "scatterternary"}], "surface": [{"colorbar": {"outlinewidth": 0, "ticks": ""}, "colorscale": [[0.0, "#0d0887"], [0.1111111111111111, "#46039f"], [0.2222222222222222, "#7201a8"], [0.3333333333333333, "#9c179e"], [0.4444444444444444, "#bd3786"], [0.5555555555555556, "#d8576b"], [0.6666666666666666, "#ed7953"], [0.7777777777777778, "#fb9f3a"], [0.8888888888888888, "#fdca26"], [1.0, "#f0f921"]], "type": "surface"}], "table": [{"cells": {"fill": {"color": "#506784"}, "line": {"color": "rgb(17,17,17)"}}, "header": {"fill": {"color": "#2a3f5f"}, "line": {"color": "rgb(17,17,17)"}}, "type": "table"}]}, "layout": {"annotationdefaults": {"arrowcolor": "#f2f5fa", "arrowhead": 0, "arrowwidth": 1}, "autotypenumbers": "strict", "coloraxis": {"colorbar": {"outlinewidth": 0, "ticks": ""}}, "colorscale": {"diverging": [[0, "#8e0152"], [0.1, "#c51b7d"], [0.2, "#de77ae"], [0.3, "#f1b6da"], [0.4, "#fde0ef"], [0.5, "#f7f7f7"], [0.6, "#e6f5d0"], [0.7, "#b8e186"], [0.8, "#7fbc41"], [0.9, "#4d9221"], [1, "#276419"]], "sequential": [[0.0, "#0d0887"], [0.1111111111111111, "#46039f"], [0.2222222222222222, "#7201a8"], [0.3333333333333333, "#9c179e"], [0.4444444444444444, "#bd3786"], [0.5555555555555556, "#d8576b"], [0.6666666666666666, "#ed7953"], [0.7777777777777778, "#fb9f3a"], [0.8888888888888888, "#fdca26"], [1.0, "#f0f921"]], "sequentialminus": [[0.0, "#0d0887"], [0.1111111111111111, "#46039f"], [0.2222222222222222, "#7201a8"], [0.3333333333333333, "#9c179e"], [0.4444444444444444, "#bd3786"], [0.5555555555555556, "#d8576b"], [0.6666666666666666, "#ed7953"], [0.7777777777777778, "#fb9f3a"], [0.8888888888888888, "#fdca26"], [1.0, "#f0f921"]]}, "colorway": ["#636efa", "#EF553B", "#00cc96", "#ab63fa", "#FFA15A", "#19d3f3", "#FF6692", "#B6E880", "#FF97FF", "#FECB52"], "font": {"color": "#f2f5fa"}, "geo": {"bgcolor": "rgb(17,17,17)", "lakecolor": "rgb(17,17,17)", "landcolor": "rgb(17,17,17)", "showlakes": true, "showland": true, "subunitcolor": "#506784"}, "hoverlabel": {"align": "left"}, "hovermode": "closest", "mapbox": {"style": "dark"}, "paper_bgcolor": "rgb(17,17,17)", "plot_bgcolor": "rgb(17,17,17)", "polar": {"angularaxis": {"gridcolor": "#506784", "linecolor": "#506784", "ticks": ""}, "bgcolor": "rgb(17,17,17)", "radialaxis": {"gridcolor": "#506784", "linecolor": "#506784", "ticks": ""}}, "scene": {"xaxis": {"backgroundcolor": "rgb(17,17,17)", "gridcolor": "#506784", "gridwidth": 2, "linecolor": "#506784", "showbackground": true, "ticks": "", "zerolinecolor": "#C8D4E3"}, "yaxis": {"backgroundcolor": "rgb(17,17,17)", "gridcolor": "#506784", "gridwidth": 2, "linecolor": "#506784", "showbackground": true, "ticks": "", "zerolinecolor": "#C8D4E3"}, "zaxis": {"backgroundcolor": "rgb(17,17,17)", "gridcolor": "#506784", "gridwidth": 2, "linecolor": "#506784", "showbackground": true, "ticks": "", "zerolinecolor": "#C8D4E3"}}, "shapedefaults": {"line": {"color": "#f2f5fa"}}, "sliderdefaults": {"bgcolor": "#C8D4E3", "bordercolor": "rgb(17,17,17)", "borderwidth": 1, "tickwidth": 0}, "ternary": {"aaxis": {"gridcolor": "#506784", "linecolor": "#506784", "ticks": ""}, "baxis": {"gridcolor": "#506784", "linecolor": "#506784", "ticks": ""}, "bgcolor": "rgb(17,17,17)", "caxis": {"gridcolor": "#506784", "linecolor": "#506784", "ticks": ""}}, "title": {"x": 0.05}, "updatemenudefaults": {"bgcolor": "#506784", "borderwidth": 0}, "xaxis": {"automargin": true, "gridcolor": "#283442", "linecolor": "#506784", "ticks": "", "title": {"standoff": 15}, "zerolinecolor": "#283442", "zerolinewidth": 2}, "yaxis": {"automargin": true, "gridcolor": "#283442", "linecolor": "#506784", "ticks": "", "title": {"standoff": 15}, "zerolinecolor": "#283442", "zerolinewidth": 2}}}, "title": {"text": "\u672d\u5e4c\u611f\u67d3\u72b6\u6cc1 2021-04-25 \uff5e 2021-07-13 15:47"}, "width": 600, "xaxis": {"anchor": "y", "domain": [0.0, 0.475], "matches": "x5", "showticklabels": false}, "xaxis2": {"anchor": "y2", "domain": [0.525, 1.0], "matches": "x6", "showticklabels": false}, "xaxis3": {"anchor": "y3", "domain": [0.0, 0.475], "matches": "x5", "showticklabels": false}, "xaxis4": {"anchor": "y4", "domain": [0.525, 1.0], "matches": "x6", "showticklabels": false}, "xaxis5": {"anchor": "y5", "domain": [0.0, 0.475]}, "xaxis6": {"anchor": "y6", "domain": [0.525, 1.0]}, "yaxis": {"anchor": "x", "domain": [0.7133333333333334, 1.0], "range": [0, 5121.6]}, "yaxis2": {"anchor": "x2", "domain": [0.7133333333333334, 1.0], "range": [0, 548.9000000000001]}, "yaxis3": {"anchor": "x3", "domain": [0.3566666666666667, 0.6433333333333333], "range": [0, 94.06250000000001]}, "yaxis4": {"anchor": "x4", "domain": [0.3566666666666667, 0.6433333333333333], "range": [0, 22.899628252788105]}, "yaxis5": {"anchor": "x5", "domain": [0.0, 0.2866666666666667]}, "yaxis6": {"anchor": "x6", "domain": [0.0, 0.2866666666666667], "range": [0, 14.454819997345457]}},                        {"responsive": true}                    )                };                            </script>        </div>
